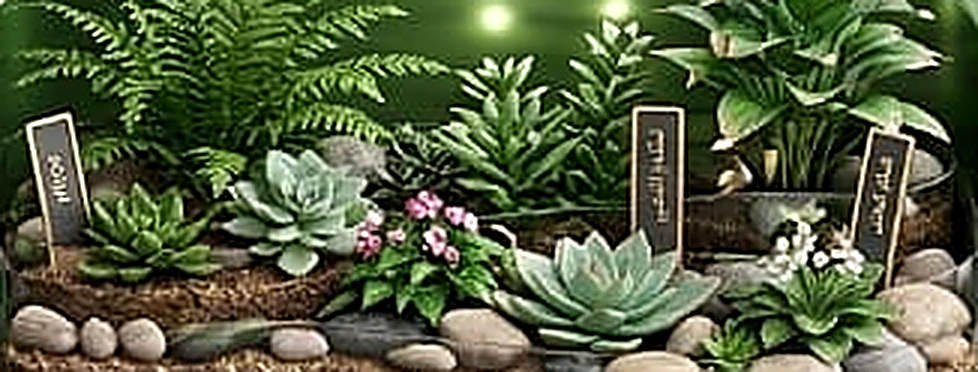
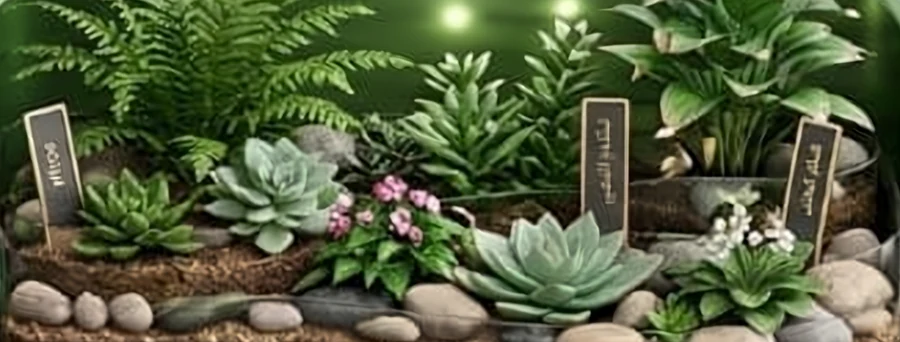
صور الديكور الأربع بتكبير ذكيّ ×٤ بدل إعادة التحجيم التي غبّشتها
- المالك: «الصورة مغبّشة». التكبير ×٣ بـLanczos مع تحديد لا يضيف تفاصيل، فبدت مغبّشة على الشاشات الحادّة.
- كل صورة قُصّت من لوحته نفسها، وأُزيل ضجيج JPEG خفيفًا، ثمّ كُبّرت ×٤ بنموذج EDSR، وحُفظت بعرض ٩٠٠ (أصغر حجمًا من قبل).
- الألوان مطابقة للأصل (متوسّط القنوات ضمن درجة واحدة)، وPSNR بعد التصغير للأصل ٣٥–٣٨.

Claude-Session: https://claude.ai/code/session_01TM3nxiXUth6d5MfRs2Myfx

diff --git a/knowledge/DECISIONS.md b/knowledge/DECISIONS.md
@@ -1,7 +1,7 @@
 # سجلّ القرارات
 ## ١٣ أكتوبر ٢٠٢٦ — v-decor-toggle-img: صور حقيقية لبطاقات «لمسات ديكورية إضافية»، بلا نصّ والاسم بالـ١٤ لغة
 - **العرض (المالك ١٣ أكتوبر):** أرسل لوحة بأربع صور (إكسسوارات فخمة، لوحات فنية، نباتات، أعد ترتيب الأثاث) وقال «حطهم في الديكور… لكن شيل الأسامي وسمهم ١٤ لغة». البطاقات كانت شرائط ألوان.
-- **القرار:** كل صورة قُصّت من لوحته فوق شريط الاسم العربيّ المطبوع فيها، فلا نصّ داخل الصورة (`assets/design/decor/*.webp`). بعدها قال «الصورة واضحة وضوح الشمس»: الصورة صافية بنسبة 8/3 بلا تظليل ولا نصّ فوقها، مكبّرة ×٣ مع تحديد، والاسم سطر تحتها، وتدرّج الألوان احتياط خلفها. الاسم من `window.t` بمفتاح `data-i18n` (موجود بالـ١٤ لغة)، والنصّ الظاهر احتياط.
+- **القرار:** كل صورة قُصّت من لوحته فوق شريط الاسم العربيّ المطبوع فيها، فلا نصّ داخل الصورة (`assets/design/decor/*.webp`). بعدها قال «الصورة واضحة وضوح الشمس»: الصورة صافية بنسبة 8/3 بلا تظليل ولا نصّ فوقها، مكبّرة ×٤ بنموذج تكبير ذكيّ (EDSR) لا بإعادة تحجيم عاديّة كانت تغبّشها، ومحفوظة بعرض ٩٠٠، والاسم سطر تحتها، وتدرّج الألوان احتياط خلفها. الاسم من `window.t` بمفتاح `data-i18n` (موجود بالـ١٤ لغة)، والنصّ الظاهر احتياط.
 - **الاختبار:** `decor-toggle-img` — الصور مربوطة وموجودة، الخلفيّة صورة فوق التدرّج، لا تظليل والاسم تحت الصورة، والمفاتيح الأربعة في كل اللغات.
 - **الدرس:** صورة فيها اسم مطبوع تكسر اللغات الأخرى؛ الاسم يبقى نصًّا فوقها.
 
